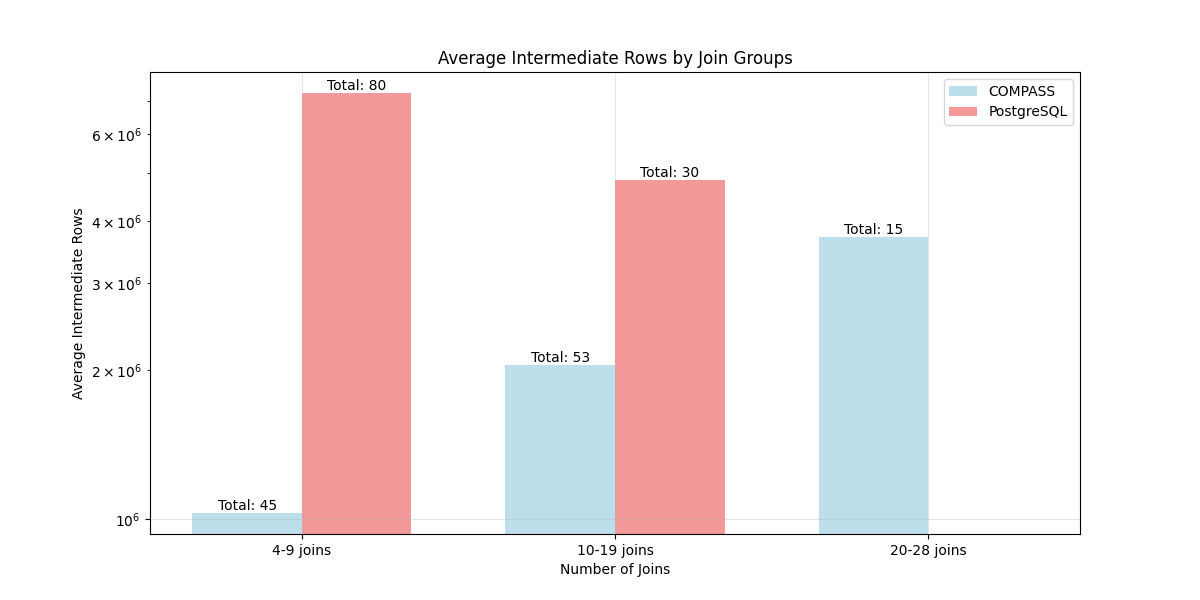
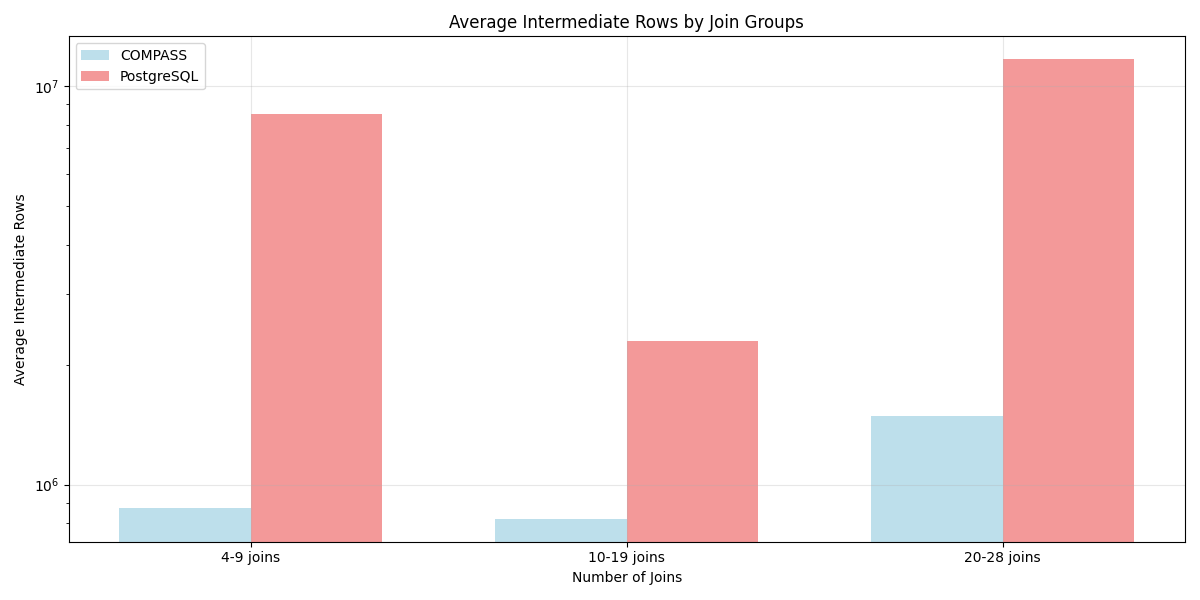
feat(winning queries): winning queries completed

diff --git a/winning_queries.py b/winning_queries.py
@@ -1,42 +1,196 @@
+#!/usr/bin/env python3
 import matplotlib.pyplot as plt
 import numpy as np
+from collections import defaultdict
 
-# Example data for demonstration
-compass_wins = 63
-postgres_wins = 39
+def read_results(filename):
+    results = {}
+    current_query = None
+    
+    with open(filename, 'r') as f:
+        for line in f:
+            line = line.strip()
+            if not line:
+                continue
+            
+            if "Total Intermediate Rows:" in line:
+                query = line.split(',')[0].strip()
+                rows = int(line.split(':')[1].strip())
+                results[query] = rows
+    
+    return results
 
-# Wins by category
-compass_by_joins = [20, 30, 13]  # Example: [4-9 joins, 10-19 joins, 20-28 joins]
-postgres_by_joins = [17, 22, 10]
+def get_join_count(query, results_file):
+    with open(results_file, 'r') as f:
+        for line in f:
+            if query in line and '⨝' in line:
+                return line.count('⨝')
+    return 0
 
-# Plotting total wins
-plt.figure(figsize=(12, 6))
-plt.subplot(1, 2, 1)
-bars1 = plt.bar(['COMPASS', 'PostgreSQL'], [compass_wins, postgres_wins], color=['lightblue', 'lightcoral'])
-plt.title('Total de Queries Ganadas')
-plt.ylabel('Número de Queries')
+def categorize_by_joins(results, results_file):
+    categories = {
+        '4-9 joins': 0,
+        '10-19 joins': 0,
+        '20-28 joins': 0
+    }
+    
+    for query in results:
+        joins = get_join_count(query, results_file)
+        if 4 <= joins <= 9:
+            categories['4-9 joins'] += 1
+        elif 10 <= joins <= 19:
+            categories['10-19 joins'] += 1
+        elif 20 <= joins <= 28:
+            categories['20-28 joins'] += 1
+    
+    return list(categories.values())
 
-# Adding text on top of bars
-for bar, value in zip(bars1, [compass_wins, postgres_wins]):
-    plt.text(bar.get_x() + bar.get_width() / 2, bar.get_height() - 5, f'{value} ({value / (compass_wins + postgres_wins) * 100:.1f}%)', ha='center', va='bottom')
+def analyze_winners(compass_results, postgres_results):
+    compass_wins = 0
+    postgres_wins = 0
+    ties = 0
+    winning_queries = {'compass': [], 'postgres': []}
+    
+    # Get all unique queries
+    all_queries = set(compass_results.keys()) | set(postgres_results.keys())
+    
+    for query in all_queries:
+        compass_rows = compass_results.get(query, float('inf'))
+        postgres_rows = postgres_results.get(query, float('inf'))
+        
+        # Debugging: Print information for 20-28 join queries
+        joins = get_join_count(query, 'compass-resultados.txt')
+        if 20 <= joins <= 28:
+            print(f"Debug: {query} - Joins: {joins}, Compass Rows: {compass_rows}, PostgreSQL Rows: {postgres_rows}")
+        
+        if compass_rows < postgres_rows:
+            compass_wins += 1
+            winning_queries['compass'].append(query)
+        elif postgres_rows < compass_rows:
+            postgres_wins += 1
+            winning_queries['postgres'].append(query)
+        else:
+            ties += 1
+    
+    return compass_wins, postgres_wins, ties, winning_queries
 
-# Plotting wins by number of joins
-plt.subplot(1, 2, 2)
-bar_width = 0.35
-index = np.arange(len(compass_by_joins))
-bars2 = plt.bar(index, compass_by_joins, bar_width, label='COMPASS', color='lightblue')
-bars3 = plt.bar(index + bar_width, postgres_by_joins, bar_width, label='PostgreSQL', color='lightcoral')
+def plot_individual_queries(compass_results, postgres_results):
+    queries = sorted(set(compass_results.keys()) | set(postgres_results.keys()))
+    compass_values = [compass_results.get(q, float('inf')) for q in queries]
+    postgres_values = [postgres_results.get(q, float('inf')) for q in queries]
+    
+    plt.figure(figsize=(16, 8))
+    x = np.arange(len(queries))
+    
+    plt.plot(x, compass_values, 'o-', label='COMPASS', color='blue', alpha=0.8, linewidth=1.5, markersize=4)
+    plt.plot(x, postgres_values, 's-', label='PostgreSQL', color='red', alpha=0.8, linewidth=1.5, markersize=4)
+    
+    plt.xlabel('Query Index')
+    plt.ylabel('Intermediate Rows')
+    plt.title('Intermediate Rows for Each Query')
+    plt.xticks(x, queries, rotation=90)
+    plt.yscale('log')
+    plt.legend()
+    plt.grid(True, alpha=0.3)
+    plt.tight_layout()
+    plt.savefig('individual_queries_analysis.png', dpi=150, bbox_inches='tight')
+    print("Plot saved as individual_queries_analysis.png")
 
-plt.xlabel('Número de Joins')
-plt.ylabel('Número de Queries')
-plt.title('Winning Queries por Número de Joins')
-plt.xticks(index + bar_width / 2, ['4-9 Joins', '10-19 Joins', '20-28 Joins'])
-plt.legend()
+def main():
+    # Read results
+    compass_results = read_results('compass-resultados.txt')
+    postgres_results = read_results('postgres-resultados.txt')
+    
+    # Analyze winners
+    compass_wins, postgres_wins, ties, winning_queries = analyze_winners(compass_results, postgres_results)
+    
+    # Debug information
+    print("\nDebug Information:")
+    print(f"Total queries in compass results: {len(compass_results)}")
+    print(f"Total queries in postgres results: {len(postgres_results)}")
+    print(f"Total unique queries: {len(set(compass_results.keys()) | set(postgres_results.keys()))}")
+    print(f"Queries in both systems: {len(set(compass_results.keys()) & set(postgres_results.keys()))}")
+    print(f"Ties: {ties}")
+    
+    # Plot individual queries
+    plot_individual_queries(compass_results, postgres_results)
+    
+    # Get wins by join category
+    compass_by_joins = categorize_by_joins(
+        {q: compass_results[q] for q in winning_queries['compass']},
+        'compass-resultados.txt'
+    )
+    
+    postgres_by_joins = categorize_by_joins(
+        {q: postgres_results[q] for q in winning_queries['postgres']},
+        'postgres-resultados.txt'  # Fixed: now using postgres file for postgres queries
+    )
+    
+    # Print summary
+    print("\nSummary of Results:")
+    print(f"Total COMPASS wins: {compass_wins} ({compass_wins/(compass_wins + postgres_wins + ties)*100:.1f}%)")
+    print(f"Total PostgreSQL wins: {postgres_wins} ({postgres_wins/(compass_wins + postgres_wins + ties)*100:.1f}%)")
+    print(f"Total ties: {ties} ({ties/(compass_wins + postgres_wins + ties)*100:.1f}%)")
+    print("\nWins by Join Count:")
+    print("Join Count  |  COMPASS  |  PostgreSQL")
+    print("-" * 40)
+    for i, (c, p) in enumerate(zip(compass_by_joins, postgres_by_joins)):
+        join_range = ['4-9', '10-19', '20-28'][i]
+        print(f"{join_range:10} |  {c:8d} |  {p:10d}")
+    
+    # Print winning queries
+    print("\nWinning Queries by System:")
+    print("\nCOMPASS wins:")
+    for query in sorted(winning_queries['compass']):
+        joins = get_join_count(query, 'compass-resultados.txt')
+        print(f"{query}: {joins} joins")
+    
+    print("\nPostgreSQL wins:")
+    for query in sorted(winning_queries['postgres']):
+        joins = get_join_count(query, 'postgres-resultados.txt')
+        print(f"{query}: {joins} joins")
 
-# Adding text on top of bars
-for bars in [bars2, bars3]:
-    for bar in bars:
-        plt.text(bar.get_x() + bar.get_width() / 2, bar.get_height() - 1, f'{int(bar.get_height())}', ha='center', va='bottom')
+    # Plotting total wins
+    plt.figure(figsize=(15, 6))
+    plt.subplot(1, 2, 1)
+    bars1 = plt.bar(['COMPASS', 'PostgreSQL'], [compass_wins, postgres_wins], 
+                   color=['lightblue', 'lightcoral'])
+    plt.title('Total Winning Queries')
+    plt.ylabel('Number of Queries')
+    
+    # Adding text on top of bars
+    total_comparisons = compass_wins + postgres_wins + ties
+    for bar, value in zip(bars1, [compass_wins, postgres_wins]):
+        plt.text(bar.get_x() + bar.get_width() / 2, bar.get_height(), 
+                f'{value}\n({value/total_comparisons*100:.1f}%)', 
+                ha='center', va='bottom')
+    
+    # Plotting wins by number of joins
+    plt.subplot(1, 2, 2)
+    bar_width = 0.35
+    index = np.arange(3)
+    
+    bars2 = plt.bar(index, compass_by_joins, bar_width, 
+                   label='COMPASS', color='lightblue')
+    bars3 = plt.bar(index + bar_width, postgres_by_joins, bar_width,
+                   label='PostgreSQL', color='lightcoral')
+    
+    plt.xlabel('Number of Joins')
+    plt.ylabel('Number of Queries')
+    plt.title('Winning Queries by Join Count')
+    plt.xticks(index + bar_width/2, ['4-9', '10-19', '20-28'])
+    plt.legend()
+    
+    # Add value labels on bars
+    for bars in [bars2, bars3]:
+        for bar in bars:
+            height = bar.get_height()
+            plt.text(bar.get_x() + bar.get_width()/2, height,
+                    f'{int(height)}', ha='center', va='bottom')
+    
+    plt.tight_layout()
+    plt.savefig('winning_queries_analysis.png', dpi=300, bbox_inches='tight')
+    print("\nAnalysis plot saved as winning_queries_analysis.png")
 
-plt.tight_layout()
-plt.show()
+if __name__ == "__main__":
+    main()

diff --git a/cardinality.py b/cardinality.py
@@ -29,23 +29,20 @@ def read_intermediate_rows(filename):
 
 def get_join_count(query_name):
     # Extract join count from query results
-    with open('postgres-resultados.txt', 'r') as f:
+    with open('compass-resultados.txt', 'r') as f:
         for line in f:
-            if query_name in line and not "Total Intermediate Rows" in line:
-                parts = line.strip().split(',')
-                if len(parts) >= 3:
-                    try:
-                        return int(parts[2].strip())
-                    except ValueError:
-                        continue
+            if query_name in line and '⨝' in line:  # Look for lines with the join symbol
+                # Count the number of join symbols (⨝) in the query
+                join_count = line.count('⨝')
+                return join_count
     return 0
 
 def group_by_joins(rows_dict):
     # Create groups: 4-9 joins, 10-19 joins, 20-28 joins
     groups = {
-        "4-9 joins": defaultdict(list),
-        "10-19 joins": defaultdict(list),
-        "20-28 joins": defaultdict(list)
+        "4-9 joins": {"rows": [], "count": 0},
+        "10-19 joins": {"rows": [], "count": 0},
+        "20-28 joins": {"rows": [], "count": 0}
     }
     
     for query, rows in rows_dict.items():
@@ -92,13 +89,13 @@ def plot_join_groups(compass_rows, postgres_rows):
     plt.bar(x - width/2, compass_avgs, width, label='COMPASS', color='lightblue', alpha=0.8)
     plt.bar(x + width/2, postgres_avgs, width, label='PostgreSQL', color='lightcoral', alpha=0.8)
     
-    # Add counts on top of bars
-    for i, v in enumerate(compass_avgs):
-        plt.text(i - width/2, v, f'Total: {compass_groups[groups[i]]["count"]}', 
-                ha='center', va='bottom')
-    for i, v in enumerate(postgres_avgs):
-        plt.text(i + width/2, v, f'Total: {postgres_groups[groups[i]]["count"]}', 
-                ha='center', va='bottom')
+    # # Add counts on top of bars
+    # for i, v in enumerate(compass_avgs):
+    #     plt.text(i - width/2, v, f'Total: {compass_groups[groups[i]]["count"]}', 
+    #             ha='center', va='bottom')
+    # for i, v in enumerate(postgres_avgs):
+    #     plt.text(i + width/2, v, f'Total: {postgres_groups[groups[i]]["count"]}', 
+    #             ha='center', va='bottom')
     
     # Customize plot
     plt.xlabel('Number of Joins')

diff --git a/README.md b/README.md
@@ -1,0 +1,3 @@
+# Analysis
+- [ ] Cardinality
+- [ ] L1 Distance
